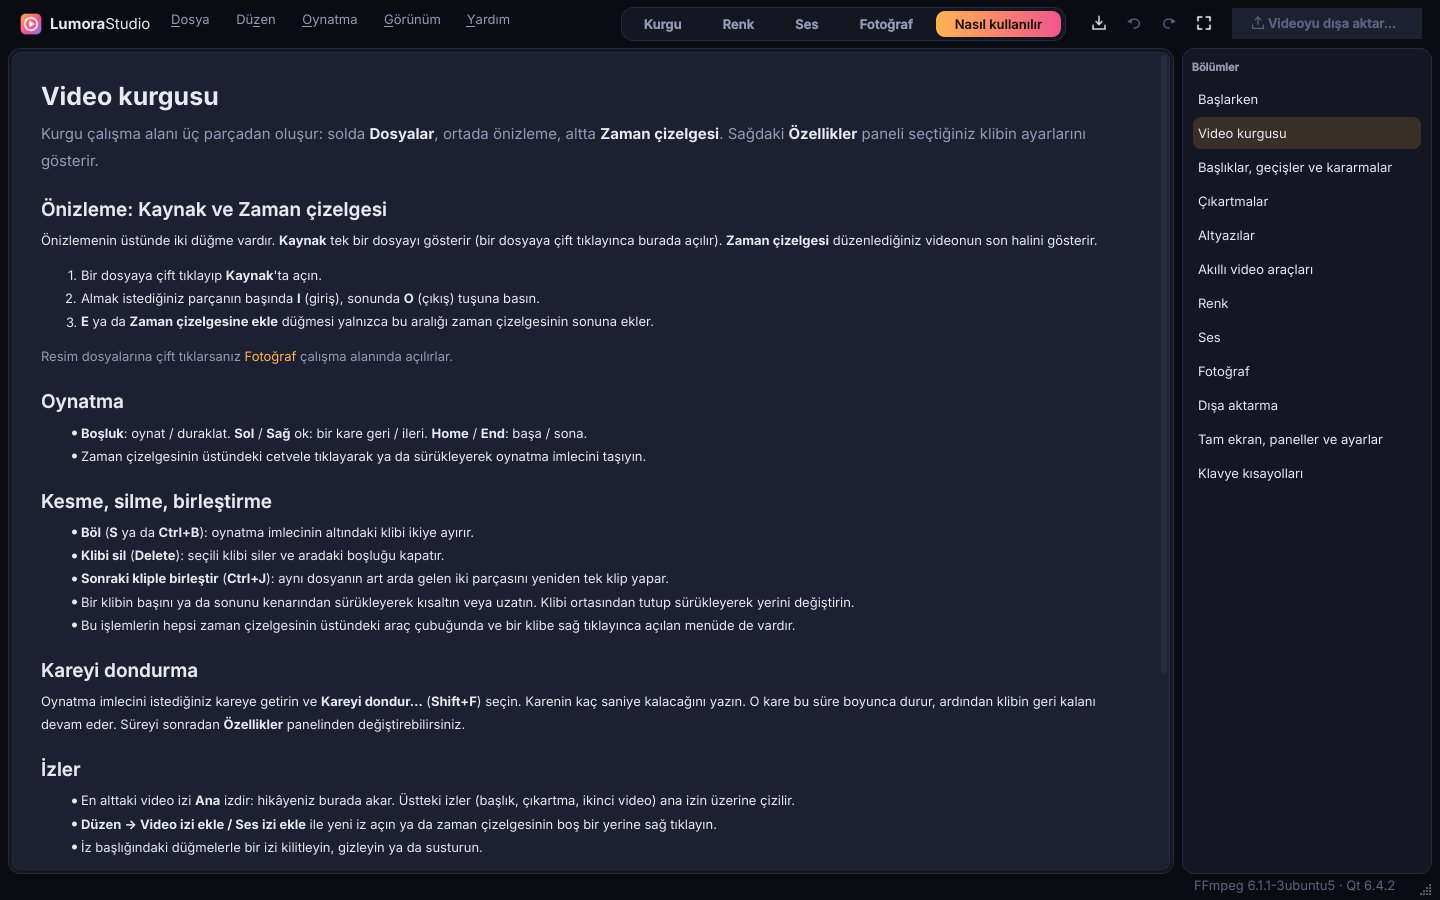
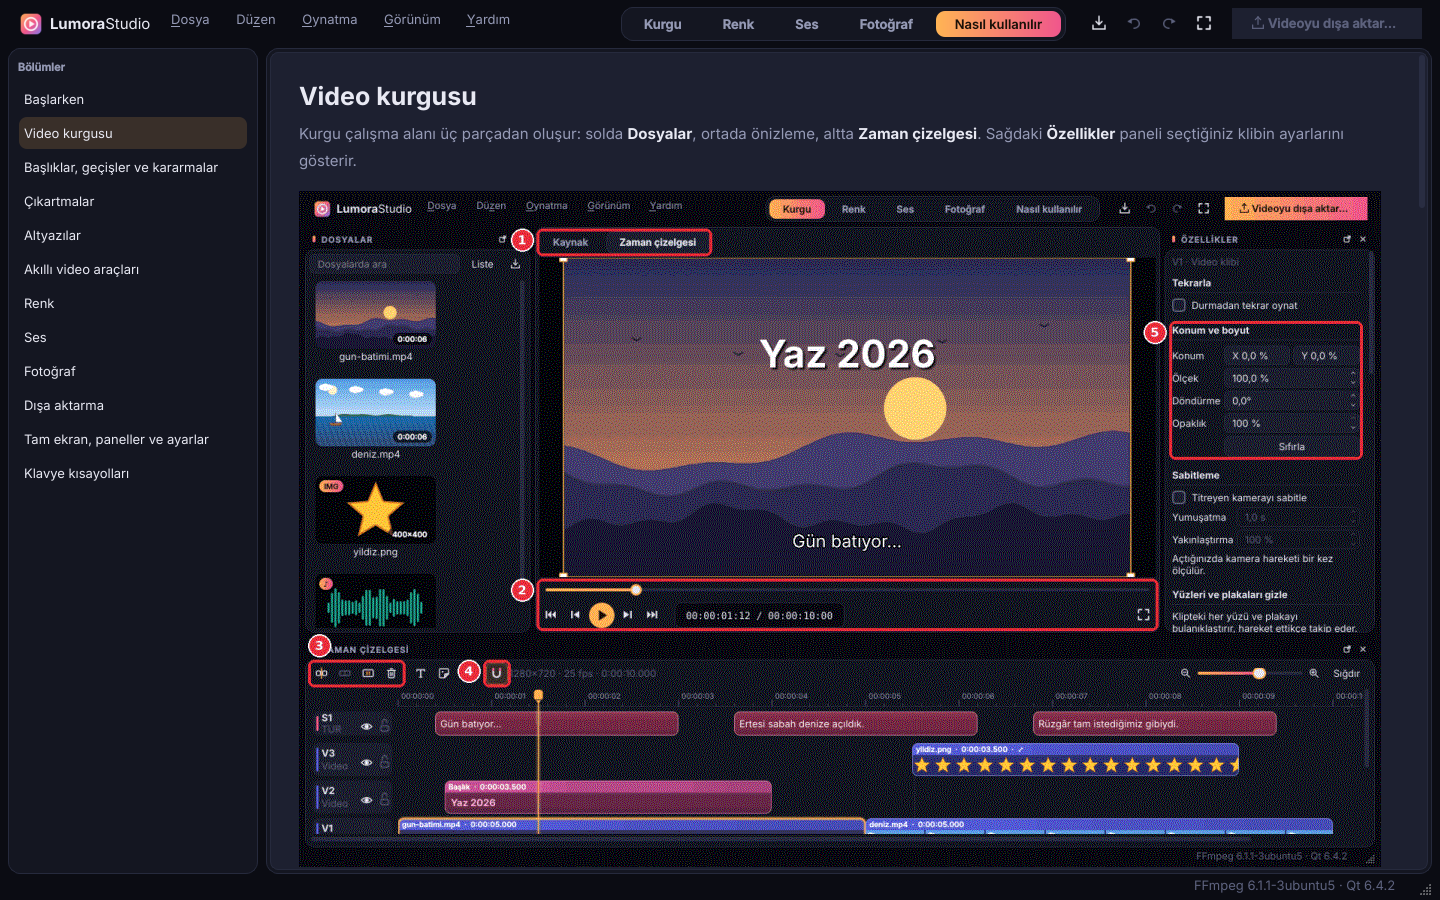
How to use: menu on the left, marked-up screenshots on every page
The section menu moves to the left of the booklet. Each page now
shows a real screenshot of the part it explains, with the buttons and
panels it talks about framed in red and numbered; a legend under the
picture names each number. Pictures shrink smoothly to the reading
width.

The screenshots come from hidden flags: --widgets writes the widget
rectangles next to a screenshot so a script can mark them up, and
--grab-scroll captures the whole scrolled content of a panel.

diff --git a/src/app/resources/help/en/smart.html b/src/app/resources/help/en/smart.html
@@ -1,5 +1,8 @@
 <h1>Smart video tools</h1>
 <p class="lead">These tools appear in the <b>Properties</b> panel when you select a clip on the timeline. They all run on this computer; the model they need is downloaded once, the first time.</p>
+<p class="shot"><img src=":/help/en/img/smart.png"></p>
+<ul class="legend"><li><span class="n">1</span> <b>Stabilisation</b></li><li><span class="n">2</span> <b>Hide faces and plates</b></li><li><span class="n">3</span> <b>Background</b></li></ul>
+
 
 <h2>Stabilising shaky footage</h2>
 <ol>
@@ -10,6 +13,9 @@
 </ol>
 
 <h2>Motion tracking</h2>
+<p class="shot"><img src=":/help/en/img/tracking.png"></p>
+<ul class="legend"><li><span class="n">1</span> <b>Motion tracking</b>: shown when a clip on a track above the main track is selected</li></ul>
+
 <p>Makes a title, sticker or blur move with something in the video below it (for example a name above a walking person).</p>
 <ol>
 <li>Select a clip on a track above the main track (title, sticker…).</li>
@@ -29,7 +35,7 @@
 
 <h2>Removing the background</h2>
 <ol>
-<li>Select a video clip and turn on <b>Remove background</b>. The person or object in front stays, the rest becomes transparent.</li>
+<li>Select a video clip and turn on <b>Remove the background</b>. The person or object in front stays, the rest becomes transparent.</li>
 <li><b>Model</b>: <b>Fast</b> or <b>Detailed (slow)</b>. The detailed model finds hair and fine edges better.</li>
 <li>Soften the cut-out with <b>Edge softness</b>.</li>
 </ol>

diff --git a/src/app/resources/help/tr/audio.html b/src/app/resources/help/tr/audio.html
@@ -1,5 +1,8 @@
 <h1>Ses</h1>
 <p class="lead"><b>Ses</b> sekmesinde seçili klibin sesini temizler ve tüm miksin ses yüksekliğini ayarlarsınız. Ses değişiklikleri görüntüyü asla yeniden kodlamaz.</p>
+<p class="shot"><img src=":/help/tr/img/audio.png"></p>
+<ul class="legend"><li><span class="n">1</span> <b>Klibin sesi</b></li><li><span class="n">2</span> <b>Ekolayzer</b> (aşağı kaydırınca kompresör, kısma ve ana çıkış gelir)</li></ul>
+
 
 <h2>Klibin sesi</h2>
 <p>Zaman çizelgesinde sesi olan bir klip seçin, sonra:</p>
@@ -13,6 +16,9 @@
 </ul>
 
 <h2>Ana çıkış (tüm miks)</h2>
+<p class="shot"><img src=":/help/tr/img/audiopanel.png"></p>
+<ul class="legend"><li><span class="n">1</span> <b>Kompresör</b></li><li><span class="n">2</span> <b>Kısma (ducking)</b></li><li><span class="n">3</span> <b>Ana çıkış (tüm miks)</b></li></ul>
+
 <ul>
 <li><b>Dışa aktarırken ses yüksekliğini eşitle</b>: bitmiş miksi ölçer ve hedefe getirir. YouTube, Spotify ve sosyal medya için <b>-14 LUFS</b>, podcast için <b>-16 LUFS</b>, televizyon için <b>-23 LUFS</b> seçin.</li>
 <li><b>Limitleyici</b>: tepelerin <b>Tavan</b> değerini aşmasını engeller, böylece ses patlamaz.</li>

diff --git a/src/app/resources/help/en/audio.html b/src/app/resources/help/en/audio.html
@@ -1,5 +1,8 @@
 <h1>Sound</h1>
 <p class="lead">In the <b>Audio</b> tab you clean up the sound of the selected clip and set the loudness of the whole mix. Sound changes never re-encode the picture.</p>
+<p class="shot"><img src=":/help/en/img/audio.png"></p>
+<ul class="legend"><li><span class="n">1</span> <b>Clip sound</b></li><li><span class="n">2</span> <b>Equaliser</b> (scroll down for the compressor, ducking and the master)</li></ul>
+
 
 <h2>The clip's sound</h2>
 <p>Select a clip with sound on the timeline, then:</p>
@@ -13,6 +16,9 @@
 </ul>
 
 <h2>Master (whole mix)</h2>
+<p class="shot"><img src=":/help/en/img/audiopanel.png"></p>
+<ul class="legend"><li><span class="n">1</span> <b>Compressor</b></li><li><span class="n">2</span> <b>Ducking</b></li><li><span class="n">3</span> <b>Master (whole mix)</b></li></ul>
+
 <ul>
 <li><b>Normalise loudness on export</b>: measures the finished mix and brings it to the target. Choose <b>-14 LUFS</b> for YouTube, Spotify and social media, <b>-16 LUFS</b> for podcasts, <b>-23 LUFS</b> for television.</li>
 <li><b>Limiter</b>: stops peaks from going above the <b>Ceiling</b>, so nothing clips.</li>

diff --git a/src/app/resources/help/tr/smart.html b/src/app/resources/help/tr/smart.html
@@ -1,5 +1,8 @@
 <h1>Akıllı video araçları</h1>
 <p class="lead">Bu araçlar zaman çizelgesinde bir klip seçince <b>Özellikler</b> panelinde görünür. Hepsi bu bilgisayarda çalışır; gereken model ilk kullanımda bir kez indirilir.</p>
+<p class="shot"><img src=":/help/tr/img/smart.png"></p>
+<ul class="legend"><li><span class="n">1</span> <b>Sabitleme</b></li><li><span class="n">2</span> <b>Yüzleri ve plakaları gizle</b></li><li><span class="n">3</span> <b>Arka plan</b></li></ul>
+
 
 <h2>Titreyen kamerayı sabitleme</h2>
 <ol>
@@ -10,6 +13,9 @@
 </ol>
 
 <h2>Hareket takibi</h2>
+<p class="shot"><img src=":/help/tr/img/tracking.png"></p>
+<ul class="legend"><li><span class="n">1</span> <b>Hareket takibi</b>: ana izin üstündeki bir klip seçiliyken görünür</li></ul>
+
 <p>Bir başlığın, çıkartmanın ya da bulanıklığın alttaki videoda bir şeyle (ör. yürüyen bir kişinin üstündeki isim) birlikte hareket etmesini sağlar.</p>
 <ol>
 <li>Ana izin üstündeki bir izde duran klibi (başlık, çıkartma…) seçin.</li>

diff --git a/src/app/resources/help/tr/photo.html b/src/app/resources/help/tr/photo.html
@@ -1,5 +1,8 @@
 <h1>Fotoğraf</h1>
 <p class="lead"><b>Fotoğraf</b> sekmesi fotoğraflar için ayrı bir düzenleyicidir. Orijinal dosya asla değişmez: düzenlemeler projede saklanır ve dışa aktarırken uygulanır.</p>
+<p class="shot"><img src=":/help/tr/img/photo.png"></p>
+<ul class="legend"><li><span class="n">1</span> <b>Fotoğraf aç…</b></li><li><span class="n">2</span> <b>Ayarla</b>, <b>Katmanlar</b> ve <b>Akıllı</b> sekmeleri</li><li><span class="n">3</span> <b>Kırp</b></li><li><span class="n">4</span> <b>Arka planı sil</b></li><li><span class="n">5</span> <b>Önce</b></li><li><span class="n">6</span> <b>Fotoğrafı dışa aktar…</b></li></ul>
+
 
 <h2>Fotoğraf açma</h2>
 <p>Soldaki <b>Fotoğraf aç…</b> düğmesiyle (JPEG, PNG, TIFF, WebP ve fotoğraf makinesi RAW dosyaları) bir ya da birden fazla fotoğraf açın veya fotoğrafları pencereye sürükleyin. Soldaki listeden fotoğraflar arasında geçin.</p>

diff --git a/src/app/resources/help/tr/edit.html b/src/app/resources/help/tr/edit.html
@@ -1,5 +1,8 @@
 <h1>Video kurgusu</h1>
 <p class="lead">Kurgu çalışma alanı üç parçadan oluşur: solda <b>Dosyalar</b>, ortada önizleme, altta <b>Zaman çizelgesi</b>. Sağdaki <b>Özellikler</b> paneli seçtiğiniz klibin ayarlarını gösterir.</p>
+<p class="shot"><img src=":/help/tr/img/edit.png"></p>
+<ul class="legend"><li><span class="n">1</span> <b>Kaynak</b> / <b>Zaman çizelgesi</b> düğmeleri</li><li><span class="n">2</span> Oynatma düğmeleri ve zaman kodu</li><li><span class="n">3</span> Böl, birleştir, kareyi dondur, sil</li><li><span class="n">4</span> <b>Yapışma</b></li><li><span class="n">5</span> <b>Konum ve boyut</b></li></ul>
+
 
 <h2>Önizleme: Kaynak ve Zaman çizelgesi</h2>
 <p>Önizlemenin üstünde iki düğme vardır. <b>Kaynak</b> tek bir dosyayı gösterir (bir dosyaya çift tıklayınca burada açılır). <b>Zaman çizelgesi</b> düzenlediğiniz videonun son halini gösterir.</p>

diff --git a/src/app/resources/help/en/edit.html b/src/app/resources/help/en/edit.html
@@ -1,5 +1,8 @@
 <h1>Editing video</h1>
 <p class="lead">The Edit workspace has three parts: <b>Files</b> on the left, the viewer in the middle and the <b>Timeline</b> at the bottom. The <b>Properties</b> panel on the right shows the settings of the selected clip.</p>
+<p class="shot"><img src=":/help/en/img/edit.png"></p>
+<ul class="legend"><li><span class="n">1</span> <b>Source</b> / <b>Timeline</b> buttons</li><li><span class="n">2</span> Playback buttons and timecode</li><li><span class="n">3</span> Split, join, freeze frame, delete</li><li><span class="n">4</span> <b>Snapping</b></li><li><span class="n">5</span> <b>Position and size</b></li></ul>
+
 
 <h2>The viewer: Source and Timeline</h2>
 <p>Two buttons sit above the viewer. <b>Source</b> shows a single file (double-click a file to open it there). <b>Timeline</b> shows the video you are editing.</p>

diff --git a/src/app/resources/help/en/photo.html b/src/app/resources/help/en/photo.html
@@ -1,5 +1,8 @@
 <h1>Photos</h1>
 <p class="lead">The <b>Photo</b> tab is a separate editor for photos. The original file never changes: edits are kept in the project and applied when you export.</p>
+<p class="shot"><img src=":/help/en/img/photo.png"></p>
+<ul class="legend"><li><span class="n">1</span> <b>Open photos…</b></li><li><span class="n">2</span> The <b>Adjust</b>, <b>Layers</b> and <b>Smart</b> tabs</li><li><span class="n">3</span> <b>Crop</b></li><li><span class="n">4</span> <b>Remove background</b></li><li><span class="n">5</span> <b>Before</b></li><li><span class="n">6</span> <b>Export photo…</b></li></ul>
+
 
 <h2>Opening photos</h2>
 <p>Open one or more photos (JPEG, PNG, TIFF, WebP and camera RAW files) with <b>Open photos…</b> on the left, or drag them onto the window. Switch between them in the list on the left.</p>

diff --git a/src/app/resources/help/tr/start.html b/src/app/resources/help/tr/start.html
@@ -1,5 +1,8 @@
 <h1>Başlarken</h1>
 <p class="lead">LumoraStudio ücretsiz bir video ve fotoğraf düzenleyicidir. İlk kuralı şudur: siz istemedikçe kalite asla düşmez.</p>
+<p class="shot"><img src=":/help/tr/img/start.png"></p>
+<ul class="legend"><li><span class="n">1</span> Çalışma alanı sekmeleri</li><li><span class="n">2</span> <b>Dosyalar</b>: içe aktardığınız video, ses ve resimler</li><li><span class="n">3</span> Önizleme</li><li><span class="n">4</span> <b>Özellikler</b>: seçili klibin ayarları</li><li><span class="n">5</span> <b>Zaman çizelgesi</b></li><li><span class="n">6</span> <b>Dışa aktar</b> düğmesi</li></ul>
+
 
 <h2>Çalışma alanları</h2>
 <p>Üstteki sekmelerle çalışma alanları arasında geçersiniz:</p>

diff --git a/src/app/resources/help/en/start.html b/src/app/resources/help/en/start.html
@@ -1,5 +1,8 @@
 <h1>Getting started</h1>
 <p class="lead">LumoraStudio is a free video and photo editor. Its first rule: quality never drops unless you ask for it.</p>
+<p class="shot"><img src=":/help/en/img/start.png"></p>
+<ul class="legend"><li><span class="n">1</span> Workspace tabs</li><li><span class="n">2</span> <b>Files</b>: the videos, sounds and pictures you imported</li><li><span class="n">3</span> The viewer</li><li><span class="n">4</span> <b>Properties</b>: settings of the selected clip</li><li><span class="n">5</span> <b>Timeline</b></li><li><span class="n">6</span> The <b>Export</b> button</li></ul>
+
 
 <h2>Workspaces</h2>
 <p>Switch between workspaces with the tabs at the top:</p>

diff --git a/src/i18n/lumora_tr.ts b/src/i18n/lumora_tr.ts
@@ -1223,8 +1223,8 @@
         <translation>LumoraStudio nasıl kullanılır</translation>
     </message>
     <message>
-        <source>Pick a section on the right.</source>
-        <translation>Sağdan bir bölüm seçin.</translation>
+        <source>Pick a section on the left.</source>
+        <translation>Soldan bir bölüm seçin.</translation>
     </message>
     <message>
         <source>Each section explains one part of the program step by step. The menu stays where it is, so you can jump between sections while you read. Go back to Edit, Color, Audio or Photo with the tabs at the top whenever you like.</source>

diff --git a/src/app/resources/help/tr/stickers.html b/src/app/resources/help/tr/stickers.html
@@ -1,5 +1,8 @@
 <h1>Çıkartmalar</h1>
 <p class="lead">Videonun ya da fotoğrafın üstüne bir resim, hareketli GIF ya da başka bir video koyun: logo, emoji, ok, küçük bir pencerede ikinci kamera…</p>
+<p class="shot"><img src=":/help/tr/img/stickers.png"></p>
+<ul class="legend"><li><span class="n">1</span> <b>Çıkartma ekle…</b></li><li><span class="n">2</span> Önizlemedeki tutamaklar: taşı, boyutlandır, döndür</li><li><span class="n">3</span> Zaman çizelgesindeki çıkartma klibi</li><li><span class="n">4</span> <b>Hareket takibi</b></li></ul>
+
 
 <h2>Videoya çıkartma</h2>
 <ol>
